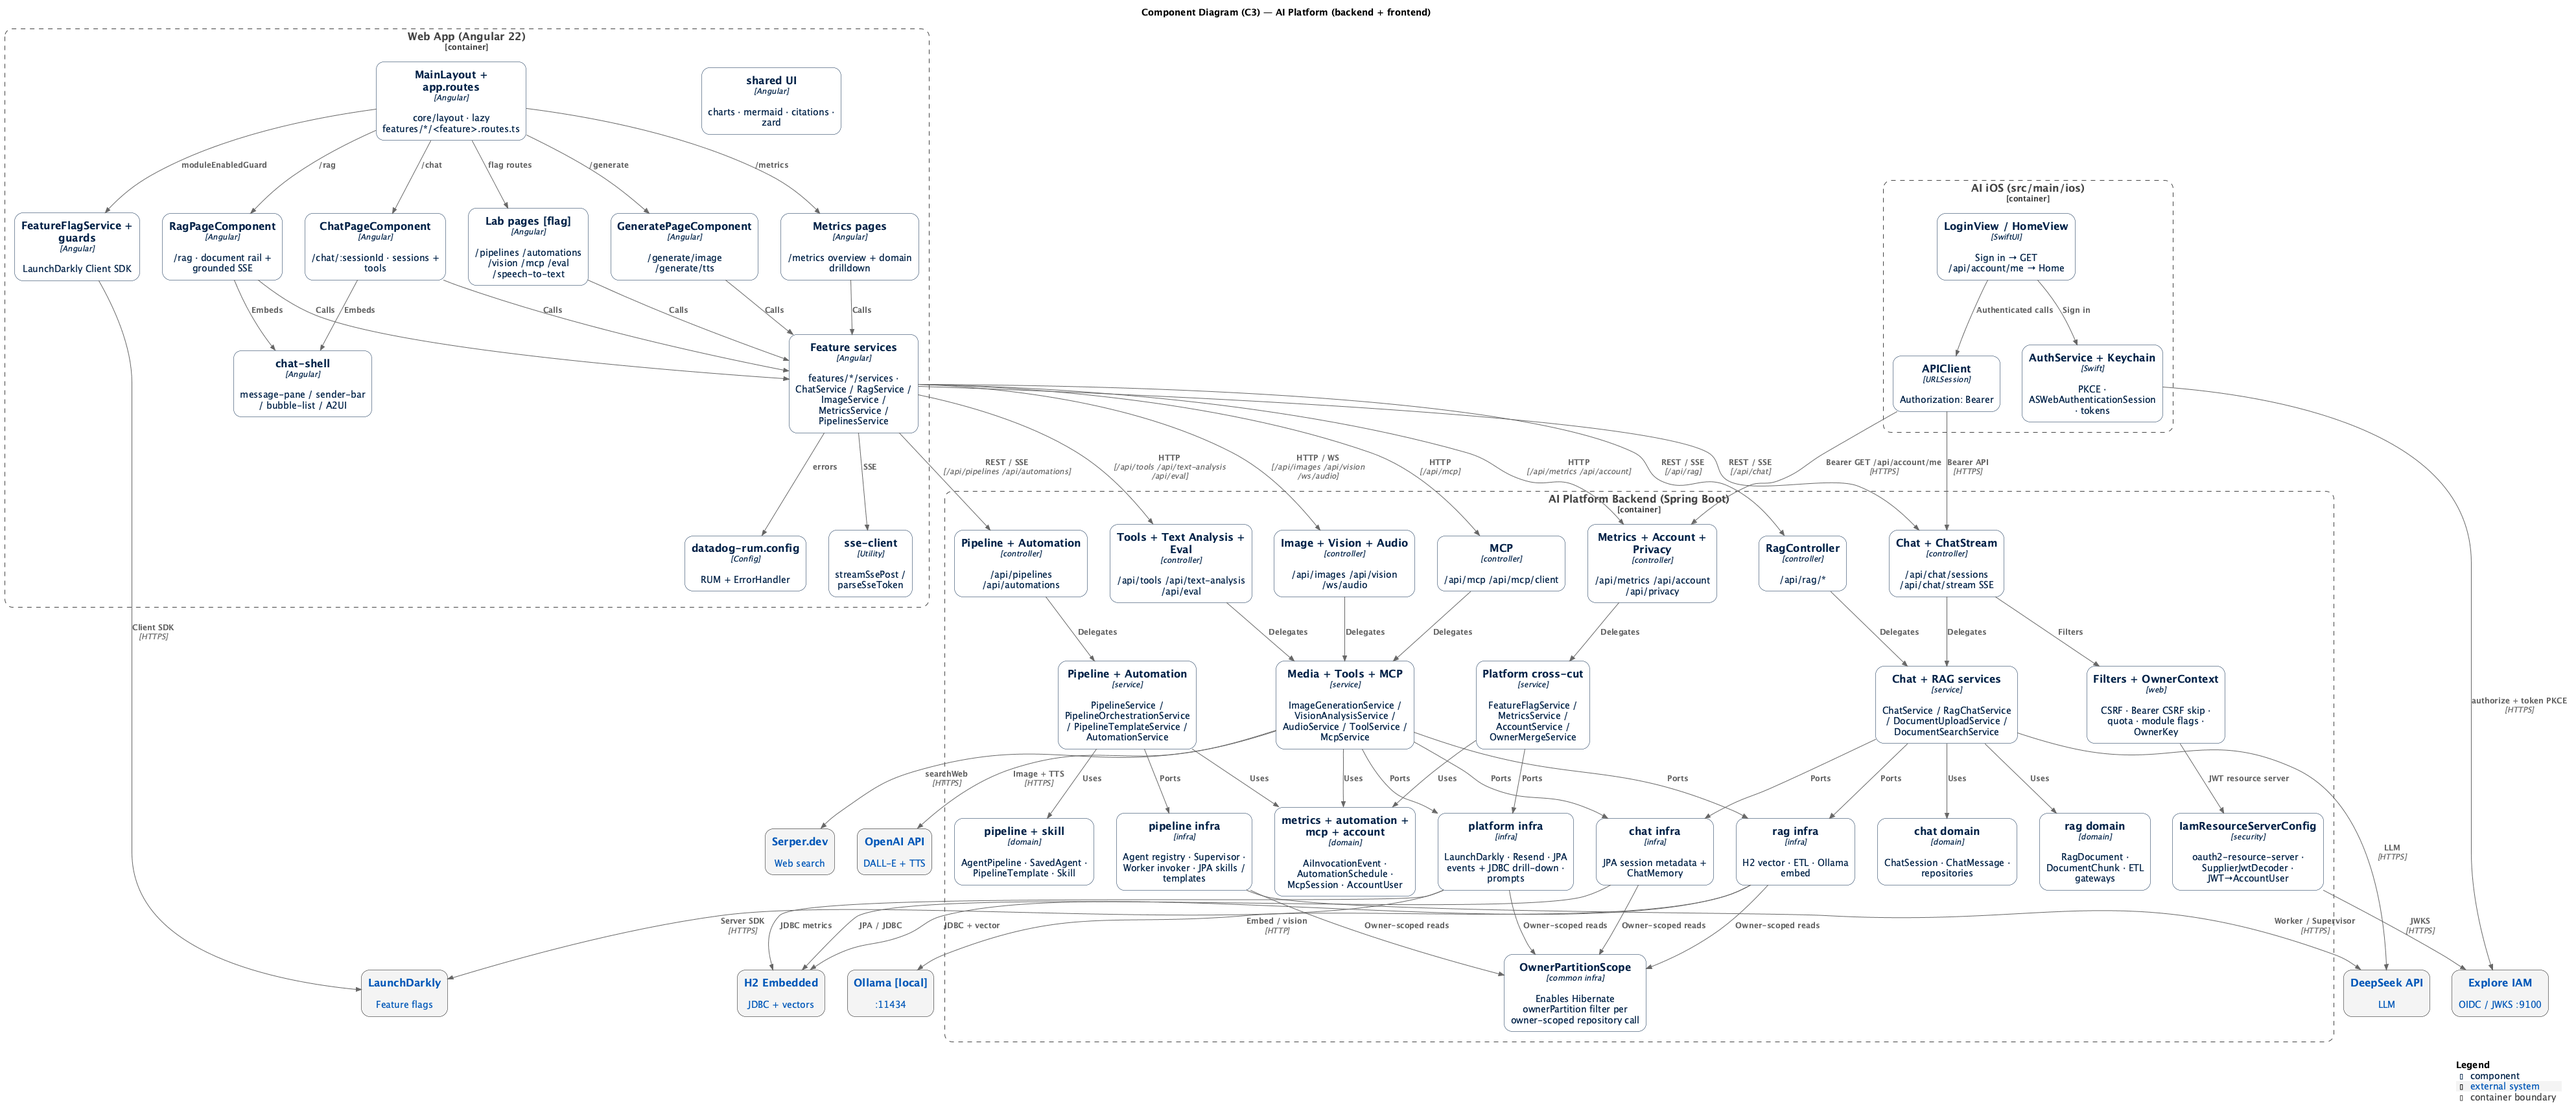
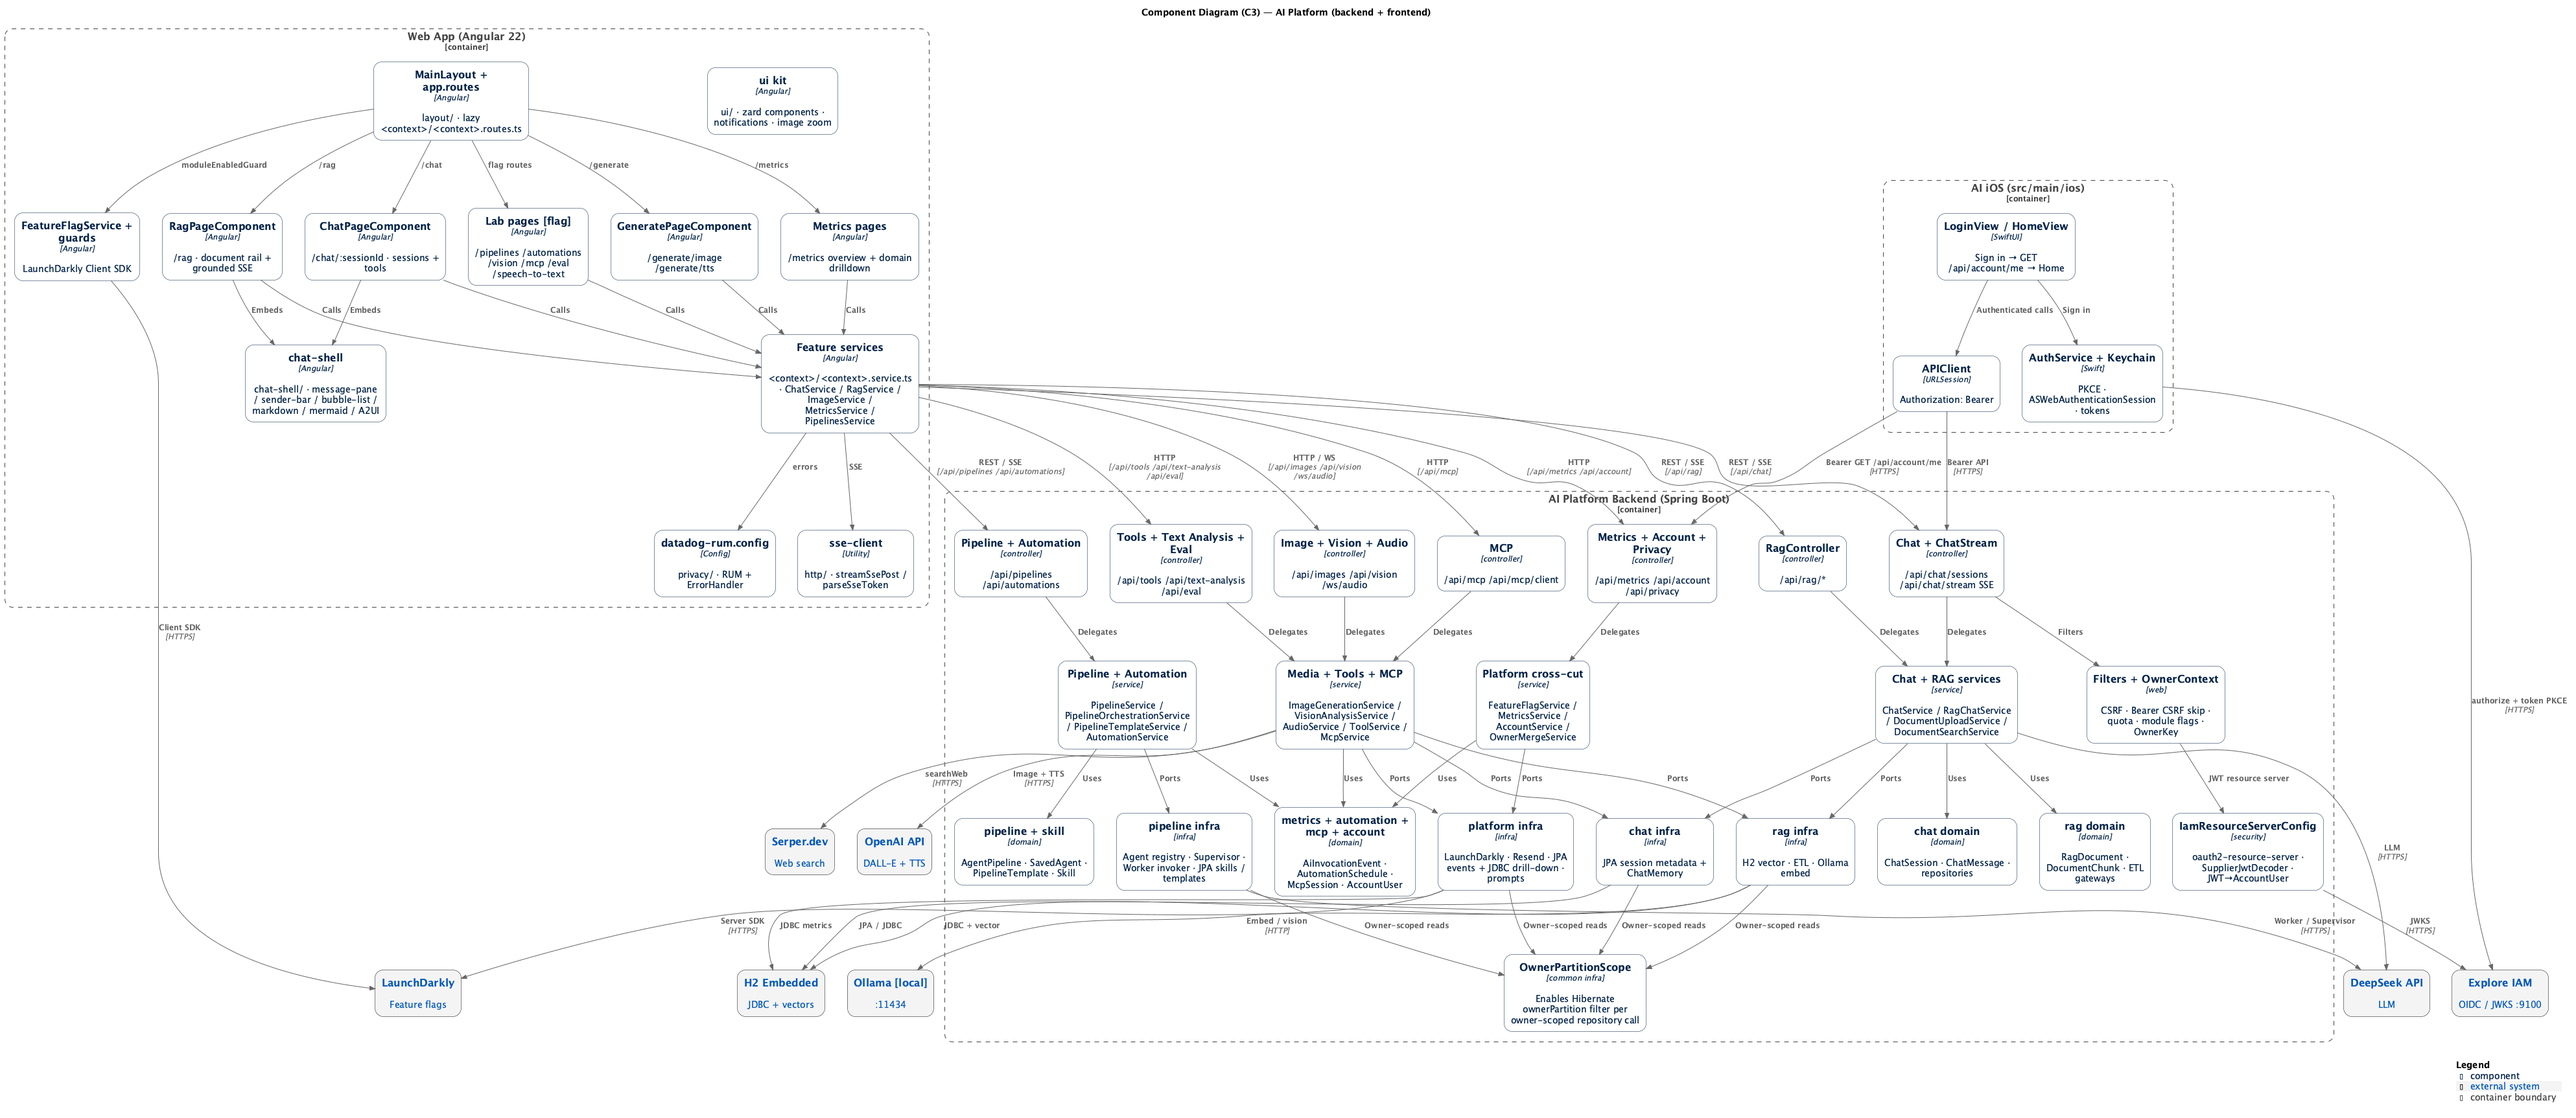
Document the flat web layout (#546)
The C4 docs, the glossary and the web README still described the
old core, shared and features tree, and the web README showed a
layout from an earlier app. They now describe one flat folder per
bounded context plus the shared layout, http, i18n, feature-flags,
ui and chat-shell contexts. The C3 PNG is re-rendered.

References:

- https://c4model.com/diagrams/component
- https://plantuml.com/command-line

diff --git a/ai/docs/Glossary.md b/ai/docs/Glossary.md
@@ -32,7 +32,7 @@ This document defines the project **Ubiquitous Language**. English terms are the
 
 | Preferred Term   | 中文        | Java Package      | Frontend Route          | API Prefix                                | Feature Flag                  | Notes                                 |
 | ---------------- | --------- | ----------------- | ----------------------- | ----------------------------------------- | ----------------------------- | ------------------------------------- |
-| Chat             | 对话        | `com.ai.chat`     | `/chat`, `/privacy`     | `/api/chat`, `/api/chat/sessions`, `/api/privacy` | —                             | UI under `app/features/chat/` + `app/features/privacy/` |
+| Chat             | 对话        | `com.ai.chat`     | `/chat`, `/privacy`     | `/api/chat`, `/api/chat/sessions`, `/api/privacy` | —                             | UI under `app/chat/` + `app/privacy/`  |
 | Pipeline         | 工作流画布      | `com.ai.pipeline` | `/pipelines`            | `/api/pipelines`                          | `module-pipelines`            | Canvas DAG; per-node editable agent copies; multilingual builtin catalog |
 | Automation       | 定时自动化      | `com.ai.automation` | `/automations`        | `/api/automations`                        | `module-automations`          | Schedule saved workflows; email result summary |
 | Skill            | 技能指令包    | `com.ai.skill`    | `/skills`               | `/api/skills`                             | `module-skills`               | User-managed packs applied in Chat    |
@@ -40,7 +40,7 @@ This document defines the project **Ubiquitous Language**. English terms are the
 | Tool Calling     | 工具调用      | `com.ai.tools`    | —                       | `/api/tools`                              | —                             | Weather + Serper                      |
 | Text Analysis    | 结构化分析     | `com.ai.textanalysis` | —                   | `/api/text-analysis`                      | —                             | No dedicated frontend route           |
 | Eval             | 对话质量评估    | `com.ai.eval`     | `/eval`                 | `/api/eval`                               | `module-eval`                 | LLM-as-a-Judge                        |
-| Image Generation | 图像生成      | `com.ai.image`    | `/generate/image`       | `/api/images`                             | —                             | UI under `app/features/generate/image/`        |
+| Image Generation | 图像生成      | `com.ai.image`    | `/generate/image`       | `/api/images`                             | —                             | UI under `app/image/`                 |
 | Image Analysis   | 图像分析      | `com.ai.vision`   | `/vision`               | `/api/vision`                             | `module-vision`               | Caption / Detect / OCR                |
 | Audio            | 语音        | `com.ai.audio`    | `/generate/tts`, `/speech-to-text` | `/api/audio`, `/ws/audio`                 | `module-audio-asr` (ASR only) | TTS always on                         |
 | MCP              | MCP       | `com.ai.mcp`      | `/mcp`                  | `/api/mcp`, `/api/mcp/client`             | `module-mcp`                  | Server + Client in one package        |
@@ -431,7 +431,7 @@ Shared BI vocabulary (Dashboard, KPI, Dimension, Drill-down, …): see **Appendi
 
 ## 14. Generation | 生成
 
-UI shell only (no dedicated Java package). Routes under `/generate` host **Image Generation** and **Text-to-Speech** pages (`app/features/generate/image/`, `app/features/generate/tts/`). Prefer those business-domain terms in code and API naming.
+UI shell only (no dedicated Java package). Routes under `/generate` host **Image Generation** and **Text-to-Speech** pages (`app/image/`, `app/tts/`; the tab shell lives in `app/generate/`). Prefer those business-domain terms in code and API naming.
 
 ---
 

diff --git a/ai/docs/developer/c4-model/README.md b/ai/docs/developer/c4-model/README.md
@@ -167,12 +167,12 @@ RAG 检索经 `H2SpringAiVectorStore`（Spring AI `VectorStore` SPI）+ `VectorS
 
 - **框架**: Angular 22 + TypeScript
 - **路由**: `/chat` `/chat/:sessionId` / `/generate` / `/rag` / `/metrics` + flag `/pipelines` `/skills` `/vision` `/mcp` `/eval` `/speech-to-text`（`/asr` 重定向）
-- **对话壳**: `shared/components/chat-shell`（message-pane / sender-bar / bubble-list / welcome），供 Chat / RAG / Agents 共用
-- **实现目录**: `app/features/<feature>/{pages,components,services}` + `<feature>.routes.ts`（文件夹、路由、i18n 区段与导航 key 同名）；`app/core/{layout,services,i18n,config}`；`app/shared/{components,a2ui}`
-- **API 服务**: 每个 feature 的 `services/`（`ChatService` / `RagService` / `ImageService` / `TtsService` / `VisionService` / `SpeechToTextService` / `PipelinesService` / `AgentsService` / `MetricsService`）+ `sse-client.ts` + shared ECharts panels
-- **浏览器存储**: 键名统一为 `explore-ai.<area>.<key>`（`core/config/storage-keys.ts`），启动时一次性迁移旧键 `language` / `ea_oauth_return` / `explore-ai-privacy-consent`
+- **对话壳**: `app/chat-shell/`（message-pane / sender-bar / bubble-list / welcome + markdown、mermaid、`a2ui-*`），供 Chat / RAG / Pipelines 共用
+- **实现目录**: 每个限界上下文一个扁平文件夹 `app/<context>/`（page、service、component、`<context>.routes.ts` 平铺，文件夹、路由、i18n 区段与导航 key 同名）；跨上下文代码放在 `app/layout`、`app/http`、`app/i18n`、`app/feature-flags`、`app/ui`（zard 组件库，按组件分文件夹）和 `app/chat-shell`；不使用 `core` / `shared` / `*.model.ts`，类型内联在 service 或使用处
+- **API 服务**: 每个上下文的 `<context>.service.ts`（`ChatService` / `RagService` / `ImageService` / `TtsService` / `VisionService` / `SpeechToTextService` / `PipelinesService` / `AgentsService` / `MetricsService`）+ `http/sse-client.ts` + `metrics/` 下的 ECharts 面板
+- **浏览器存储**: 键名统一为 `explore-ai.<area>.<key>`（`app/storage-keys.ts`），启动时一次性迁移旧键 `language` / `ea_oauth_return` / `explore-ai-privacy-consent`
 - **功能开关**: `FeatureFlagService` + `moduleEnabledGuard`（LaunchDarkly Client SDK）
-- **可观测性**: `datadog-rum.config.ts`
+- **可观测性**: `privacy/datadog-rum.config.ts`
 - **端口**: dev 4200 (proxy `/api` → `:9000`) / prod Vercel 静态托管
 
 ### Chat 流式 API

diff --git a/ai/src/main/web/README.md b/ai/src/main/web/README.md
@@ -36,20 +36,27 @@ pnpm test
 
 ## Project Structure
 
+Each bounded context is one flat folder under `app/`. Pages,
+services, components and `<context>.routes.ts` sit side by side, and
+types live in the service or component that uses them (no `core`,
+`shared` or `*.model.ts`).
+
 ```
-src/
+src/main/web/
 ├── app/
-│   ├── components/     # UI components
-│   │   ├── ai/         # AI-related components
-│   │   ├── agents/     # Agent components
-│   │   └── panels/     # Panel components
-│   ├── services/       # Angular services
-│   ├── i18n/           # Internationalization
-│   ├── shared/         # Shared utilities & models
-│   └── theme/          # Theme configuration
-├── styles.scss         # Global styles
-├── main.ts             # Application entry point
-└── index.html          # HTML entry point
+│   ├── app.config.ts, app.routes.ts, storage-keys.ts
+│   ├── layout/          # Main layout, header, sidebar, nav config
+│   ├── http/            # API base URL, interceptors, SSE client
+│   ├── i18n/            # I18nService, translations, locales
+│   ├── feature-flags/   # FeatureFlagService, module guard
+│   ├── ui/              # zard kit (one folder per component)
+│   ├── chat-shell/      # Message pane, bubbles, markdown, A2UI
+│   ├── account/  agents/  automations/  chat/  eval/
+│   ├── generate/  image/  tts/  mcp/  metrics/  pipelines/
+│   └── policies/  privacy/  rag/  skills/  speech-to-text/  vision/
+├── styles.css           # Global styles
+├── main.ts              # Application entry point
+└── index.html           # HTML entry point
 ```
 
 ## Features
